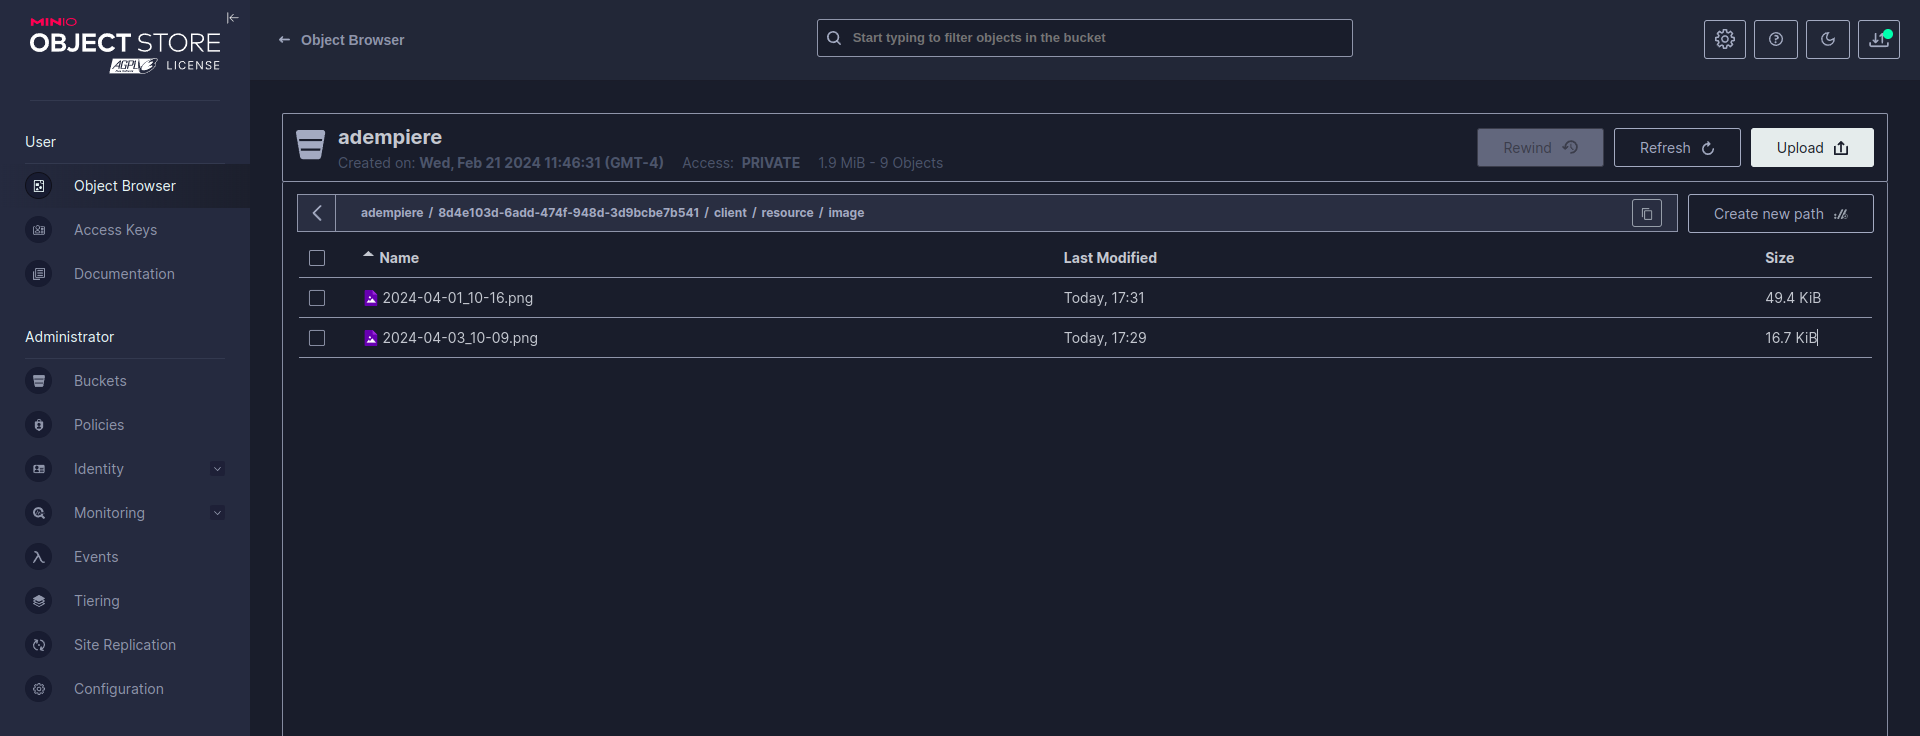
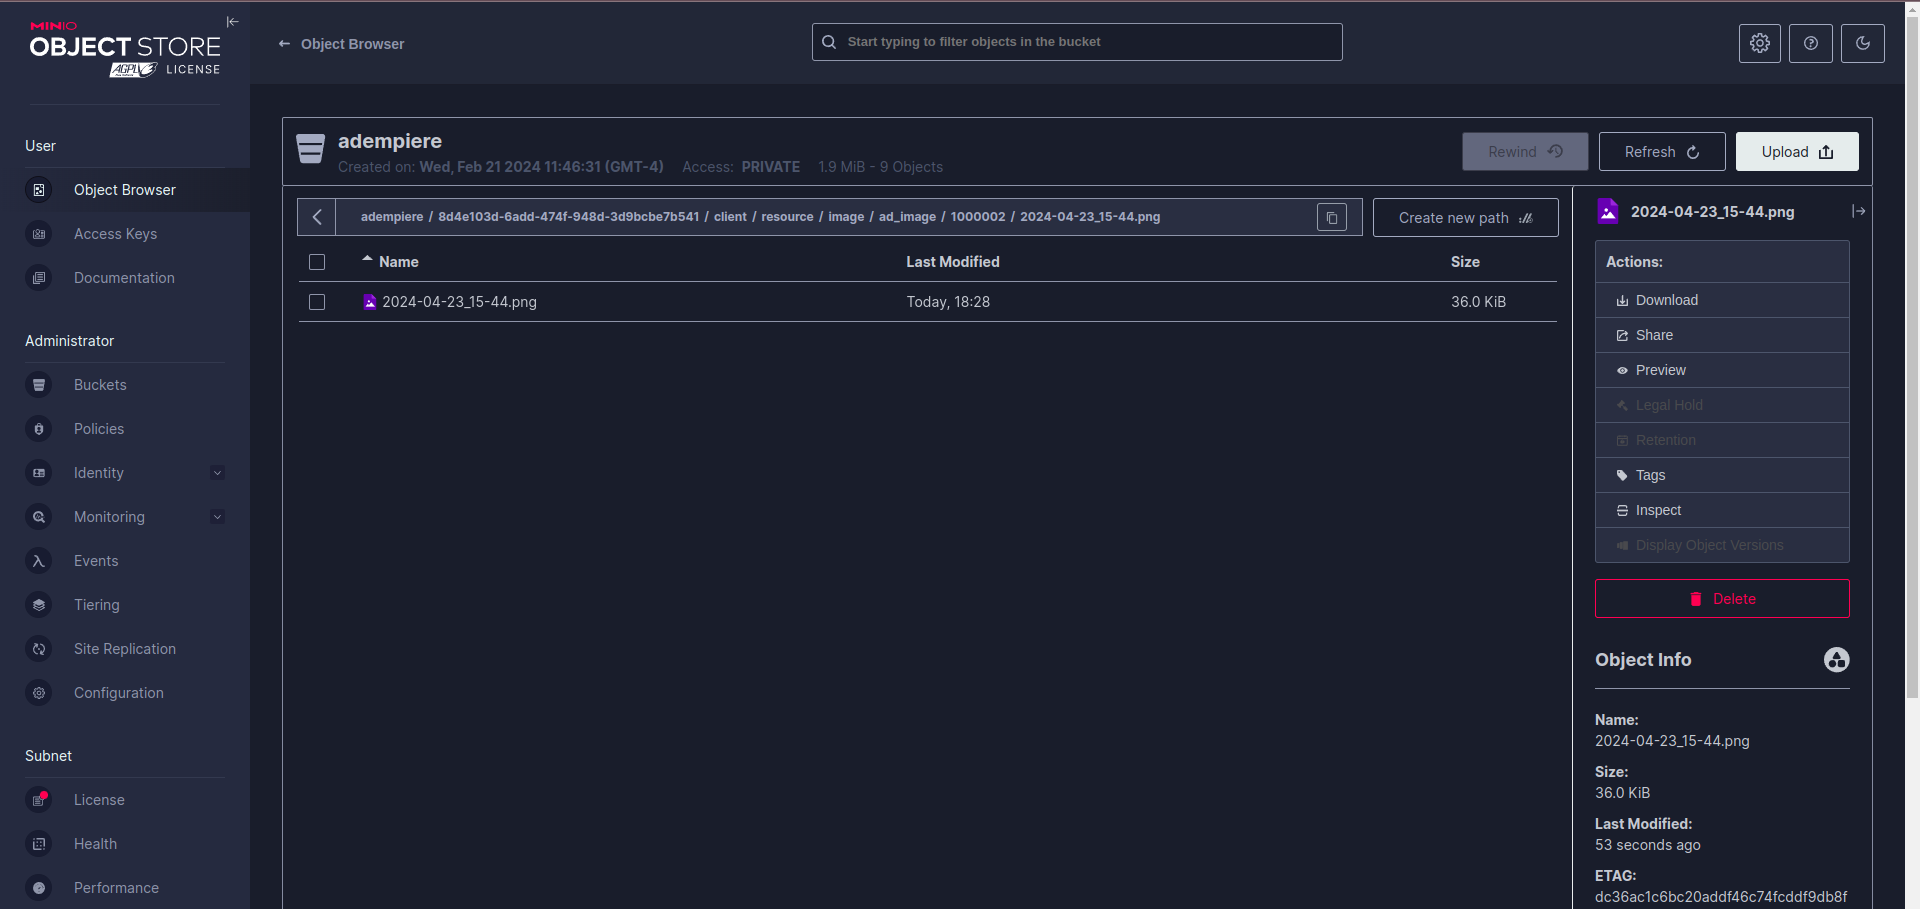
Add new path for image

diff --git a/src/main/java/org/spin/util/AttachmentUtil.java b/src/main/java/org/spin/util/AttachmentUtil.java
@@ -22,6 +22,7 @@ import java.util.ArrayList;
 import java.util.List;
 import java.util.Properties;
 
+import org.adempiere.core.domains.models.I_AD_Image;
 import org.adempiere.exceptions.AdempiereException;
 import org.compiere.model.MArchive;
 import org.compiere.model.MAttachment;
@@ -487,6 +488,8 @@ public class AttachmentUtil {
 					.withClientId(attachmentReference.getAD_Client_ID())
 					.withContainerType(ResourceMetadata.ContainerType.RESOURCE)
 					.withContainerId("image")
+					.withTableName(I_AD_Image.Table_Name)
+					.withRecordId(attachmentReference.getAD_Image_ID())
 					.withName(attachmentReference.getFileName())
 					.getResourceFileName()
 					;

diff --git a/README.md b/README.md
@@ -34,12 +34,12 @@ The files are store depending of follow parameters:
 - Client ID: `8d4e103d-6add-474f-948d-3d9bcbe7b541`
 - Container Type: `resource`
 - Container ID: `image`
-- Table: No apply
-- Record ID: No apply
+- Table: `AD_Image`
+- Record ID: `1000002`
 - User ID: No apply
 - Resource Name: `2024-04-01_10-16.png`
 
-The route to store this resource is `<bucket name>/8d4e103d-6add-474f-948d-3d9bcbe7b541/client/resource/image/2024-04-01_10-16.png`
+The route to store this resource is `<bucket name>/8d4e103d-6add-474f-948d-3d9bcbe7b541/client/resource/image/ad_image/1000002/2024-04-01_10-16.png`
 
 #### Archives
 
